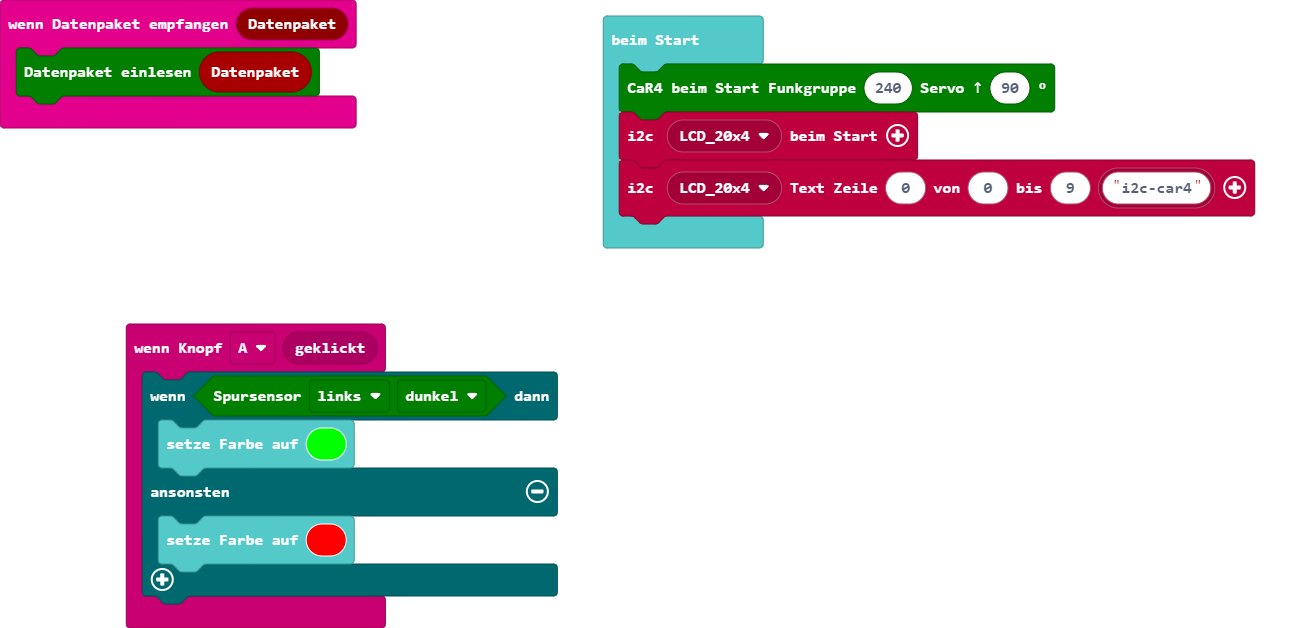
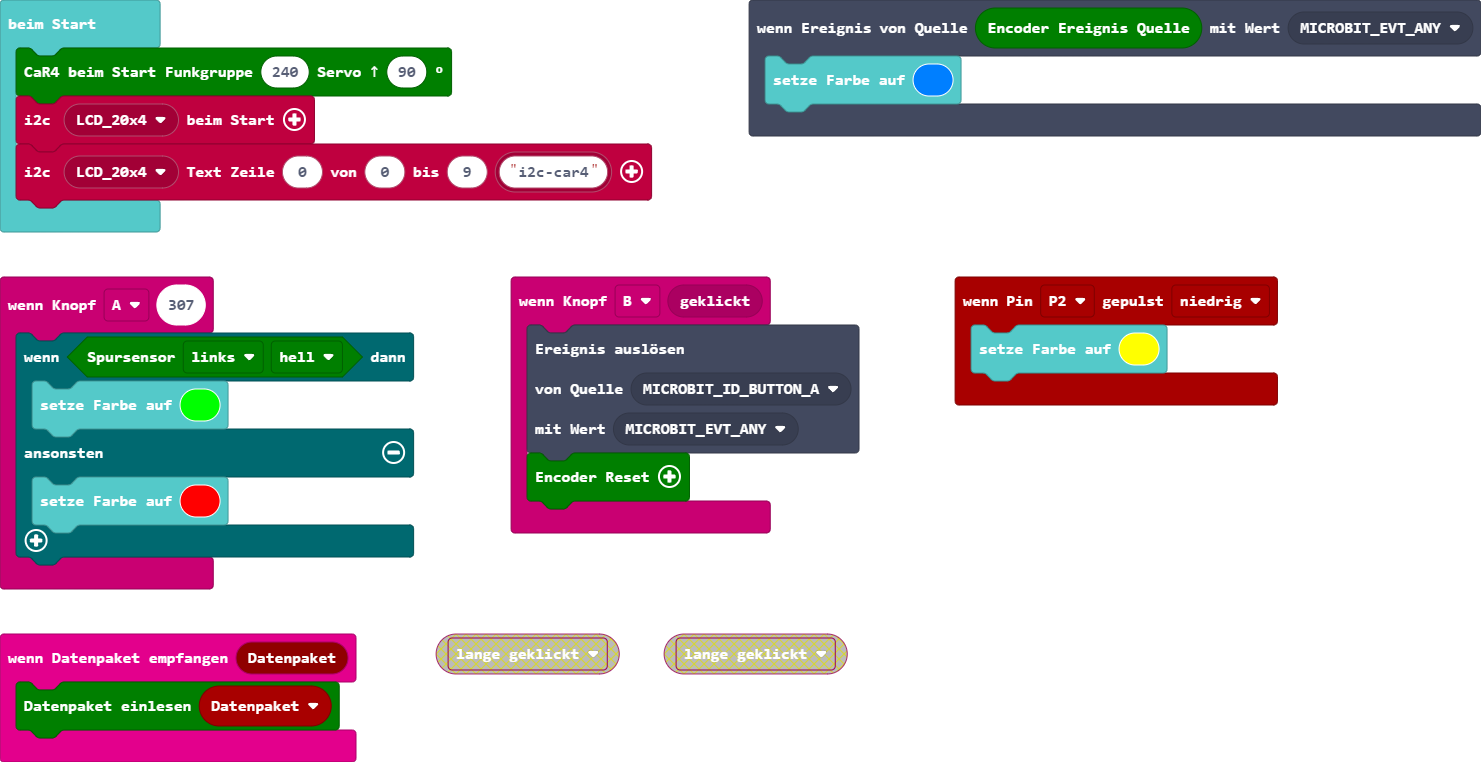
Aktualisiere main.blocks, main.ts, car4.ts, qwiicmotor.ts, wattmeter.ts, sensoren.ts

diff --git a/car4.ts b/car4.ts
@@ -23,8 +23,10 @@ namespace car4
     //const i2cMotor = qwiicmotor.eADDR.Motor_x5D
     //const i2cWattmeter = wattmeter.eADDR.Watt_x45
 
-    let n_Servo_geradeaus = 90 // Winkel für geradeaus
-    let n_ServoWinkel: number
+    let n_Simulator: boolean = ("€".charCodeAt(0) == 8364)
+    let n_Log = "CaR4" // Anzeige auf Display nach Start
+    let n_Servo_geradeaus = 90 // Winkel für geradeaus wird beim Start eingestellt
+    let n_ServoWinkel = 90 // aktuell eingestellter Winkel
 
     //let n_Connected: boolean
     //let iLaufzeit: number // ms seit Start
@@ -40,11 +42,12 @@ namespace car4
     // ========== group="beim Start"
 
     //% group="beim Start"
-    //% block="CaR4 beim Start Funkgruppe %funkgruppe Servo ↑ %winkel °"
+    //% block="CaR4 beim Start Funkgruppe %funkgruppe Servo ↑ %winkel °" weight=8
     //% funkgruppe.min=0 funkgruppe.max=255 funkgruppe.defl=240
     //% winkel.min=81 winkel.max=99 winkel.defl=90
     //% inlineInputMode=inline 
     export function beimStart(funkgruppe: number, winkel: number) {
+        let tx: string
 
         // Parameter
         radio.setGroup(funkgruppe)
@@ -52,14 +55,23 @@ namespace car4
 
         relay(true) // Relais an schalten (PIN 0)
 
+
         // I²C Module initialisieren und Fehler anzeigen
-        if (!wattmeterReset(4096))
-            basic.showString(Buffer.fromArray([i2cWattmeter]).toHex()) // zeige fehlerhafte i2c-Adresse als HEX
+        if (!n_Simulator) {
+            if (!wattmeterReset(4096)) {
+                tx = Buffer.fromArray([i2cWattmeter]).toHex()
+                n_Log += " " + tx
+                basic.showString(tx) // zeige fehlerhafte i2c-Adresse als HEX
+            } else if (wattmeterakkuleer()) {
+                n_Log += " Akku laden"
+            }
 
-        if (!motorReset())
-            basic.showString(Buffer.fromArray([i2cMotor]).toHex()) // zeige fehlerhafte i2c-Adresse als HEX
-
-
+            if (!motorReset()) {
+                tx = Buffer.fromArray([i2cMotor]).toHex()
+                n_Log += " " + tx
+                basic.showString(tx) // zeige fehlerhafte i2c-Adresse als HEX
+            }
+        }
 
         // PINs ab PIN 4:
         led.enable(false) // Matrix deaktivieren (erst nach showString), um PINs zu benutzen
@@ -72,9 +84,16 @@ namespace car4
 
     }
 
+    //% group="beim Start"
+    //% block="Protokoll Text" weight=4
+    export function logText() { return n_Log }
+
+
+
+    // ========== group="Servo"
 
     //% group="Servo"
-    //% block="Servo (↖45° ↑90° ↗135°) %winkel °"
+    //% block="Servo (45° ↖ 90° ↗ 135°) %winkel °"
     //% winkel.min=45 winkel.max=135 winkel.defl=90
     export function servo(winkel: number) {
         if (between(winkel, 45, 135) && n_ServoWinkel != winkel) {
@@ -85,31 +104,20 @@ namespace car4
 
 
 
+    // ========== group="Kommentar"
+
     //% group="Kommentar"
     //% block="// %text"
     export function comment(text: string): void { }
 
 
 
-    //% group="Logik (boolean)" advanced=true
+    // ========== group="Logik" advanced=true
+
+    //% group="Logik" advanced=true
     //% block="%i0 zwischen %i1 und %i2" weight=1
     export function between(i0: number, i1: number, i2: number): boolean {
         return (i0 >= i1 && i0 <= i2)
     }
 
-
-    /* 
-        export function i2cErrorLog(pADDR: number) {
-    
-        }
-    
-        function writeRegister(pADDR: number, pRegister: number, value: number, repeat: boolean = false): boolean {
-            return pins.i2cWriteBuffer(pADDR, Buffer.fromArray([pRegister, value]), repeat) == 0
-        }
-    
-        function readBuffer(pADDR: number, pRegister: number): Buffer {
-            pins.i2cWriteBuffer(pADDR, Buffer.fromArray([pRegister]), true)
-            return pins.i2cReadBuffer(pADDR, 1)
-        }
-     */
 }

diff --git a/sensoren.ts b/sensoren.ts
@@ -7,20 +7,41 @@ namespace car4
 
     // ========== group="Encoder" subcategory="Sensoren"
 
-    let n_Encoder: number = 0
+    let n_Encoder: number = 0 // Impuls Zähler
     let n_EncoderFaktor = 63.3 * (26 / 14) / (8 * Math.PI) // 63.3 Motorwelle * (26/14) Zahnräder / (8cm * PI) Rad Umfang = 4.6774502 cm
+    let n_EncoderEventValue: number = 0 // löst Event aus bei Zähler in cm
 
     // Event Handler
     pins.onPulsed(pinEncoder, PulseValue.Low, function () {
         // Encoder 63.3 Impulse pro U/Motorwelle
         if (n_MotorA >= 128) n_Encoder += 1 // vorwärts
         else n_Encoder -= 1 // rückwärts
+
+        if (n_EncoderEventValue > 0 && Math.abs(encoder_cm()) >= n_EncoderEventValue) {
+            n_EncoderEventValue = 0 // Ereignis nur einmalig auslösen, wieder aktivieren mit encoder_reset
+            control.raiseEvent(encoder_EventSource(), EventBusValue.MICROBIT_EVT_ANY)
+        }
     })
+
+
+    //% group="Encoder" subcategory="Sensoren"
+    //% block="Encoder Reset || Ereignis auslösen bei %pEncoderEventValue cm" weight=9
+    //% pEncoderEventValue.defl=0
+    export function encoder_reset(pEncoderEventValue = 0) {
+        n_Encoder = 0 // Impuls Zähler zurück setzen
+        if (pEncoderEventValue > 0) n_EncoderEventValue = pEncoderEventValue
+        else n_EncoderEventValue = 0
+    }
+
+    //% group="Encoder" subcategory="Sensoren"
+    //% block="Encoder Ereignis Quelle" weight=8
+    export function encoder_EventSource() { return 16022 }
+
 
 
 
     //% group="Encoder" subcategory="Sensoren"
-    //% block="Fahrstrecke %pVergleich %cm cm" weight=8
+    //% block="Fahrstrecke %pVergleich %cm cm" weight=7
     export function encoder_vergleich(pVergleich: eVergleich, cm: number) {
         switch (pVergleich) {
             case eVergleich.gt: return encoder_cm() > cm
@@ -40,11 +61,6 @@ namespace car4
     //% group="Encoder" subcategory="Sensoren"
     //% block="Encoder Impulse" weight=4
     export function encoder_get() { return n_Encoder }
-
-    //% group="Encoder" subcategory="Sensoren"
-    //% block="Encoder Reset" weight=2
-    export function encoder_reset() { n_Encoder = 0 }
-
 
 
     // ========== group="Spursensor" subcategory="Sensoren"

diff --git a/main.ts b/main.ts
@@ -1,12 +1,25 @@
-input.onButtonEvent(Button.A, input.buttonEventClick(), function () {
-    if (car4.spursensor(car4.elr.links, car4.ehd.dunkel)) {
+input.onButtonEvent(Button.A, 307, function () {
+    if (car4.spursensor(car4.elr.links, car4.ehd.hell)) {
         basic.setLedColor(0x00ff00)
     } else {
         basic.setLedColor(0xff0000)
     }
 })
+input.onButtonEvent(Button.B, input.buttonEventClick(), function () {
+    control.raiseEvent(
+    EventBusSource.MICROBIT_ID_BUTTON_A,
+    EventBusValue.MICROBIT_EVT_ANY
+    )
+    car4.encoder_reset()
+})
 radio.onReceivedBuffer(function (Datenpaket) {
     car4.onReceivedBuffer(Datenpaket)
+})
+pins.onPulsed(DigitalPin.P2, PulseValue.Low, function () {
+    basic.setLedColor(0xffff00)
+})
+control.onEvent(car4.encoder_EventSource(), EventBusValue.MICROBIT_EVT_ANY, function () {
+    basic.setLedColor(0x007fff)
 })
 car4.beimStart(240, 90)
 lcd20x4.initLCD(lcd20x4.lcd20x4_eADDR(lcd20x4.eADDR.LCD_20x4))

diff --git a/qwiicmotor.ts b/qwiicmotor.ts
@@ -33,7 +33,7 @@ namespace car4
     //% group="Motor"
     //% block="Motor A (-100 ↓ 0 ↑ 100) %speed \\%" weight=6
     //% speed.shadow="speedPicker" speed.defl=0
-    export function motorA(speed: number) {
+    export function motorA100(speed: number) {
         // constrain: speed zwischen -100 und +100 begrenzen
         // map: -100 -> 0 / 0 -> 127,5 / +100 -> 255
         // ceil: aufrunden, damit 127,5 = 128 = 0x80 Motor Stillstand
@@ -53,8 +53,8 @@ namespace car4
     }
 
     //% group="Motor"
-    //% block="Motor A Speed" weight=3
-    export function motorSpeed() { return n_MotorA }
+    //% block="Motor A (0 ↓ 128 ↑ 255)" weight=3
+    export function motorAget() { return n_MotorA }
 
     //% group="Motor"
     //% block="watchdog timeout %time * 10ms" weight=2

diff --git a/wattmeter.ts b/wattmeter.ts
@@ -55,7 +55,7 @@ namespace car4
 
     //% group="Wattmeter" advanced=true
     //% block="Akku laden < 7V" weight=2
-    export function akkuleer() { return wattmeterV(1) < 7 } // kleiner als 7.0 Volt
+    export function wattmeterakkuleer() { return wattmeterV(1) < 7 } // kleiner als 7.0 Volt
 
 
 
